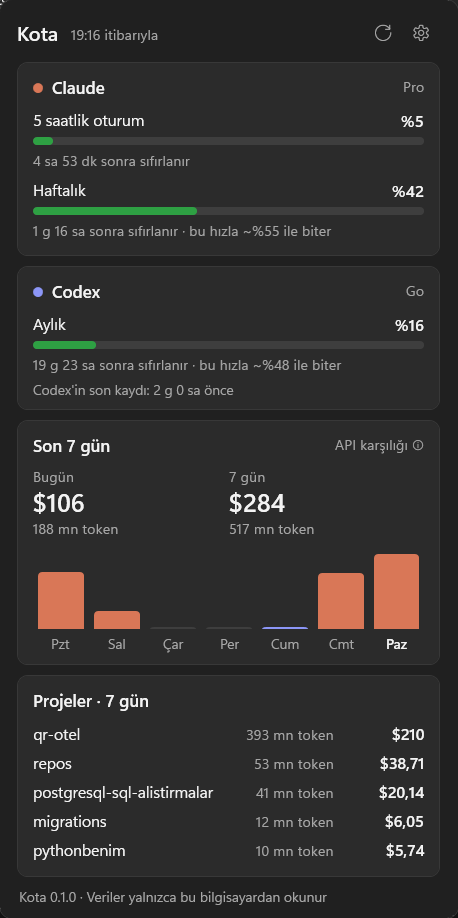
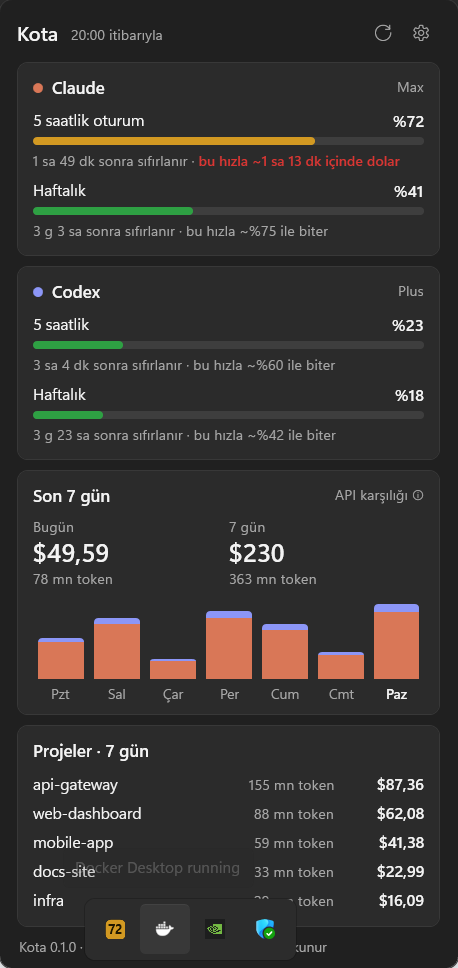
Add --demo mode and use sample data in README screenshots
Screenshots no longer show real project names or spending.
Show the update time in the locale's short time format (7:16 PM in English).

diff --git a/src/Kota.App/DemoData.cs b/src/Kota.App/DemoData.cs
@@ -1,0 +1,57 @@
+using System;
+using System.Collections.Generic;
+using Kota.Core;
+
+namespace Kota.App;
+
+/// <summary>Sample data for screenshots and UI work: run Kota with --demo.</summary>
+static class DemoData
+{
+    public static ProviderLimits Claude(DateTimeOffset now) => new(Provider.Claude,
+    [
+        new LimitWindow("five_hour", 72, now.AddMinutes(110), TimeSpan.FromHours(5)),
+        new LimitWindow("seven_day", 41, now.AddHours(76), TimeSpan.FromDays(7)),
+    ], "max", now, now);
+
+    public static ProviderLimits Codex(DateTimeOffset now) => new(Provider.Codex,
+    [
+        new LimitWindow("codex_primary", 23, now.AddMinutes(185), TimeSpan.FromHours(5)),
+        new LimitWindow("codex_secondary", 18, now.AddDays(4), TimeSpan.FromDays(7)),
+    ], "plus", now, now.AddMinutes(-2));
+
+    public static IReadOnlyDictionary<BucketKey, TokenTotals> Usage(DateTimeOffset now)
+    {
+        double[] dayScale = [0.6, 0.9, 0.3, 1.0, 0.8, 0.4, 1.1];
+        (string Name, double Share, bool UsesCodex)[] projects =
+        [
+            ("api-gateway", 0.38, true), ("web-dashboard", 0.27, false), ("mobile-app", 0.18, false),
+            ("docs-site", 0.10, false), ("infra", 0.07, true),
+        ];
+
+        var buckets = new Dictionary<BucketKey, TokenTotals>();
+        var today = DateOnly.FromDateTime(now.ToLocalTime().DateTime);
+        for (int i = 0; i < dayScale.Length; i++)
+        {
+            var noonLocal = today.AddDays(i - (dayScale.Length - 1)).ToDateTime(new TimeOnly(12, 0));
+            var hourUtc = TimeZoneInfo.ConvertTimeToUtc(DateTime.SpecifyKind(noonLocal, DateTimeKind.Unspecified), TimeZoneInfo.Local);
+            foreach (var (name, share, usesCodex) in projects)
+            {
+                double k = dayScale[i] * share;
+                long input = (long)(20_000 * k), output = (long)(900_000 * k);
+                long write = (long)(3_000_000 * k), read = (long)(60_000_000 * k);
+                buckets[new BucketKey(hourUtc, Provider.Claude, name, "claude-opus-5-5")] = new TokenTotals
+                {
+                    Input = input, Output = output, CacheWrite = write, CacheRead = read, Requests = (int)(400 * k),
+                    Cost = Pricing.ClaudeCost("claude-opus-5-5", input, output, write, 0, read),
+                };
+                if (usesCodex)
+                    buckets[new BucketKey(hourUtc, Provider.Codex, name, "codex")] = new TokenTotals
+                    {
+                        Input = (long)(4_000_000 * k), CacheRead = (long)(12_000_000 * k), Output = (long)(150_000 * k),
+                        Requests = (int)(120 * k),
+                    };
+            }
+        }
+        return buckets;
+    }
+}

diff --git a/src/Kota.App/TrayController.cs b/src/Kota.App/TrayController.cs
@@ -50,9 +50,12 @@ sealed class TrayController : IDisposable
     Drawing.Icon? _currentIcon;
     string? _iconText;
 
-    public TrayController(Settings settings)
+    readonly bool _demo;
+
+    public TrayController(Settings settings, bool demo = false)
     {
         _settings = settings;
+        _demo = demo;
         _http.DefaultRequestHeaders.UserAgent.ParseAdd($"Kota/{Version} (+{RepoUrl})");
         _claude = new ClaudeLimitsClient(_http, KnownPaths.ClaudeDir);
         _timer.Tick += (_, _) => Refresh(forceClaude: false);
@@ -78,6 +81,16 @@ sealed class TrayController : IDisposable
 
     void Refresh(bool forceClaude)
     {
+        if (_demo)
+        {
+            var now = DateTimeOffset.UtcNow;
+            _claudeLimits = DemoData.Claude(now);
+            _codexLimits = DemoData.Codex(now);
+            _usage = DemoData.Usage(now);
+            _lastUpdated = now;
+            UpdateUi();
+            return;
+        }
         _ = RefreshLimitsAsync(forceClaude);
         _ = RefreshHistoryAsync();
     }

diff --git a/src/Kota.App/App.xaml.cs b/src/Kota.App/App.xaml.cs
@@ -47,9 +47,10 @@ public partial class App : Application
         Theme.Apply(Resources);
         StartupRegistration.RepairPathIfEnabled();
 
-        _tray = new TrayController(settings);
+        bool HasArg(string name) => Array.Exists(e.Args, a => a.Equals(name, StringComparison.OrdinalIgnoreCase));
+        _tray = new TrayController(settings, demo: HasArg("--demo"));
         _tray.Start();
-        if (Array.Exists(e.Args, a => a.Equals("--show", StringComparison.OrdinalIgnoreCase))) _tray.ShowFlyout();
+        if (HasArg("--show")) _tray.ShowFlyout();
     }
 
     protected override void OnExit(ExitEventArgs e)

diff --git a/src/Kota.App/FlyoutWindow.xaml.cs b/src/Kota.App/FlyoutWindow.xaml.cs
@@ -79,7 +79,7 @@ public partial class FlyoutWindow : Window
 
     internal void Render(AppState s)
     {
-        UpdatedText.Text = s.LastUpdated is { } u ? L.F("Updated", u.ToLocalTime().ToString("HH:mm", L.Culture)) : "";
+        UpdatedText.Text = s.LastUpdated is { } u ? L.F("Updated", u.ToLocalTime().ToString("t", L.Culture)) : "";
         RefreshButton.ToolTip = L.T("RefreshNow");
         MenuButton.ToolTip = L.T("Settings");
 

diff --git a/README.tr.md b/README.tr.md
@@ -70,7 +70,8 @@ Bu klasörleri taşıdıysan `CLAUDE_CONFIG_DIR` ve `CODEX_HOME` ortam değişke
 git clone https://github.com/BerkanAtik/kota
 cd kota
 dotnet test
-dotnet run --project src/Kota.App -- --show
+dotnet run --project src/Kota.App -- --show          # gerçek veri
+dotnet run --project src/Kota.App -- --show --demo   # örnek veri, ekran görüntüleri için
 ```
 
 Windows 10 veya 11 üzerinde .NET 10 SDK gerekir. Veri okuma ve hesaplamalar `src/Kota.Core` içinde, testleri yazılı. WPF tepsi uygulaması `src/Kota.App` içinde.

diff --git a/README.md b/README.md
@@ -74,7 +74,8 @@ small scan cache) stays in `%LOCALAPPDATA%\Kota`.
 git clone https://github.com/BerkanAtik/kota
 cd kota
 dotnet test
-dotnet run --project src/Kota.App -- --show
+dotnet run --project src/Kota.App -- --show          # real data
+dotnet run --project src/Kota.App -- --show --demo   # sample data, for screenshots
 ```
 
 Requires the .NET 10 SDK on Windows 10 or 11. The parsing and math are in `src/Kota.Core` and covered by tests. The WPF tray app is in `src/Kota.App`.
